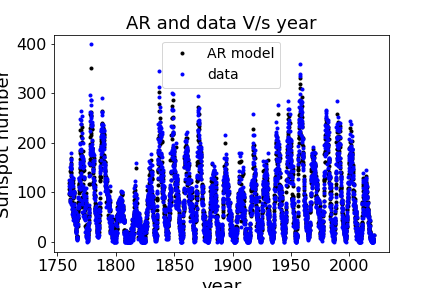
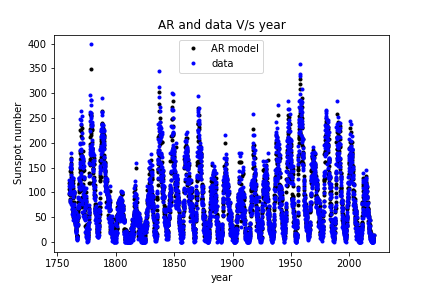
almost done, maybe polish a bit

diff --git a/Hw_9/pb1.py b/Hw_9/pb1.py
@@ -10,7 +10,6 @@ Created on Sun Nov 22 10:34:46 2020
 #-----------------------------------------libraries and font
 import numpy as np
 import matplotlib.pyplot as plt
-from matplotlib import rc
 import emcee
 import corner
 import math
@@ -106,24 +105,35 @@ burn = int(0.25*niter)
 samples = sampler.chain[:, burn:, :].reshape((-1, ndim))
 
 
+
+
+
+
+
+
+
+
+
+
 #%%----------------------------------------plotting the model +noise values---------------------------------
 
 
 
 N=len(ssn)
-year=[decyear[i] for i in range(132,N)]
+year=[decyear[i] for i in range(132,N)]    #not including first 132 values since they will be used as initial values
 ssnnew=[]
 x=[]
 xmodel=[]
 noise=[]
+#average of all the parameter values MCMC goes through (excluding the burnt ones)
 c,phi,phi1,phi2,sigma=[np.mean(samples[:,0]),np.mean(samples[:,1]),np.mean(samples[:,2]),np.mean(samples[:,3]),np.mean(samples[:,4])]
 print("c=",c,"phi=",phi,"phi12=",phi1,"phi132=",phi2,"sigmaz=",sigma)
 for i in range(132,N):
-    m=c+phi*ssn[i]+phi1*ssn[i-12]+phi2*ssn[i-132]
-    n=np.random.normal(0,abs(sigma))
+    m=c+phi*ssn[i]+phi1*ssn[i-12]+phi2*ssn[i-132]#model
+    n=np.random.normal(0,abs(sigma))#noise
     xmodel.append(m)
     noise.append(n)
-    x.append(m+n)
+    x.append(m+n)#AR model
     ssnnew.append(ssn[i])
 plt.title("AR and data V/s year")
 plt.xlabel("year")
@@ -166,9 +176,20 @@ plt.show()
 
 
 
-#---------------------------------------plotting noise and model separately---------------------
+
+
+
+
+
+
+
+
+
+#---------------------------------------plotting corner plots---------------------
+labels = [r"c",r"$\phi_1$",r"$\phi_{12}$", r"$\phi_{132}$",r"$\sigma_z$"]
 fig = corner.corner(samples, bins=50, color='C0', smooth=0.5, plot_datapoints=True, plot_density=True, \
-                    plot_contours=True, fill_contour=False, show_titles=True)#, labels=labels)
+                    plot_contours=True, fill_contour=False, show_titles=True, labels=labels)
+
 fig.savefig("corner.png")
 plt.savefig("Images/corner")
 plt.show()
@@ -176,14 +197,21 @@ plt.show()
 
 
 
-#%%
-#--------------------------------------plotting spectrum----------------------------------------
+
+
+
+
+
+
+
+
+
+#--------------------------------------plotting spectrum earlier method----------------------------------------
 def freq(time):
 	samp_time=np.mean(np.diff(time))
 	samp_freq=1/(samp_time*3600*24*30)    #express in seconds
 	fre = [i*samp_freq/len(time) for i in range(int(len(time)/2))]
 	return(fre)
-
 
 f=np.fft.fft(xmodel)
 Amp=[(np.abs(f[i])) for i in range(int(len(xmodel)/2))]
@@ -192,10 +220,45 @@ plt.title("Fourier Transform of data")
 plt.yscale('log')
 plt.xscale('log')
 plt.xlabel("Freqency in Hertz")
-plt.ylabel("Amplitude of data")
+plt.ylabel("Amplitude")
 plt.plot(time1,Amp)
 plt.savefig("Images/spectrum")
 plt.show()
+
+#--------------------------------------------plotting spectrum-----------------------------------------------------
+def frequ():
+    """
+    This gives the frequencies from 10^−10 to 10^2.
+    Parameters:none
+    Returns:frequency in Hertz.
+    """
+    j=10**(-10)
+    fre=[10**(-10)]
+    while j<=100:
+        j=1.25*j
+        fre.append(j)
+    return(fre)
+S=[]
+fre=frequ()
+#finding spectrun
+for i in range(len(fre)):
+    num=sigma**2
+    den=(abs(1-phi*np.exp(-2j*np.pi*1*fre[i])-phi1*np.exp(-2j*np.pi*12*fre[i])-phi2*np.exp(-2j*np.pi*132*fre[i])))**2
+    a=num/den
+    S.append(a)
+plt.title("Power spectrum")
+plt.yscale('log')
+plt.xscale('log')
+plt.xlabel("Freqency in Hertz")
+plt.ylabel("Spectrum amplitude")
+plt.plot(fre,S)
+plt.savefig("Images/spectrum2")
+plt.show()
+
+
+
+
+
 
 
 
@@ -204,7 +267,8 @@ plt.show()
 #-----------------------------------predicting to 2050---------------------------------------------------
 N=len(ssn)
 year=[decyear[i] for i in range(132,N)]
-j=11
+j=11#starting from November 2020
+#adding more months till 2050 end
 for i in range(N,N+360):
     year.append(2020+j/12)
     j=j+1

diff --git a/Hw_9/Bonus.py b/Hw_9/Bonus.py
@@ -9,16 +9,8 @@ Created on Sun Nov 22 20:26:34 2020
 
 #%%
 import numpy as np
-import matplotlib.pyplot as plt
-from matplotlib import rc
 import emcee
-import corner
 import math
-# Make more readable plots
-rc('font',**{'size':14})
-rc('xtick',**{'labelsize':16})
-rc('ytick',**{'labelsize':16})
-rc('axes',**{'labelsize':18,'titlesize':18})
 
 # Data: decimal year, sunspot number
 decyear, ssn = np.loadtxt("SN_m_tot_V2.0.txt", unpack=True, usecols=(2, 3))
@@ -37,7 +29,7 @@ def lnprior(theta):
     """
     for i in range(1,4):
         if theta[i] >1 or theta[i]<-1:
-            return("a")
+            return(0)
         else: 
             return(0.25)
     pass
@@ -73,23 +65,24 @@ def lnlike(theta,data):
         phi2=0
         sigma=theta[2]
     x=[]
+    ssnn=[]
     N=len(data)
     for i in range(132,N):
         xi=c+phi*data[i]+phi1*data[i-12]+phi2*data[i-132]+np.random.normal(0,abs(sigma))
         x.append(xi)
+        ssnn.append(data[i])
     s=x       #model 
     I=data       #priors(useless)
     sum=0
     for i in range(len(s)):
         sum=sum+math.log(1./(np.sqrt(2*3.14)))-0.5*(I[i+132]-s[i])**2
+#    print(stats.chisquare(ssnn,x))
     return(sum)
 
 
 def lnprob(theta, data):
     lp = lnprior(theta)
-    # if not np.isfinite(lp):
-    #     return -np.inf
-    return lnlike(theta,data)
+    return lp+ lnlike(theta,data)
 
 
 
@@ -124,7 +117,9 @@ burn = int(0.25*niter)
 samples = sampler.chain[:, burn:, :].reshape((-1, ndim))
 c,phi,phi1,phi2,sigma=[np.mean(samples[:,0]),np.mean(samples[:,1]),np.mean(samples[:,2]),np.mean(samples[:,3]),np.mean(samples[:,4])]
 theta1=[c,phi,phi1,phi2,sigma]
-AIC1=10-2*lnlike(theta1,ssn)
+a1=lnlike(theta1,ssn)
+AIC1=14+2*a1
+
 
 
 
@@ -162,7 +157,9 @@ burn = int(0.25*niter)
 samples = sampler.chain[:, burn:, :].reshape((-1, ndim))
 c,phi,phi1,sigma=[np.mean(samples[:,0]),np.mean(samples[:,1]),np.mean(samples[:,2]),np.mean(samples[:,3])]
 theta2=[c,phi,phi1,sigma]
-AIC2=8-2*lnlike(theta2,ssn)
+a2=lnlike(theta2,ssn)
+AIC2=12+2*a2
+
 
 
 
@@ -201,14 +198,14 @@ burn = int(0.25*niter)
 samples = sampler.chain[:, burn:, :].reshape((-1, ndim))
 c,phi,sigma=[np.mean(samples[:,0]),np.mean(samples[:,1]),np.mean(samples[:,2])]
 theta3=[c,phi,sigma]
-AIC3=6-2*lnlike(theta3,ssn)
+a3=lnlike(theta3,ssn)
+AIC3=10+2*a3
 
 
+#%%
+print("model 1 and 2 comparison",np.exp((AIC2-AIC1)/AIC2))
+print("model 1 and 3 comparison",np.exp((AIC3-AIC1)/AIC3))
 
-
-print("model 1 and 2 comparison",AIC1/AIC2)
-print("model 1 and 3 comparison",AIC1/AIC3)
-print("model 2 and 3 comparison",AIC2/AIC3)
 
 
 
